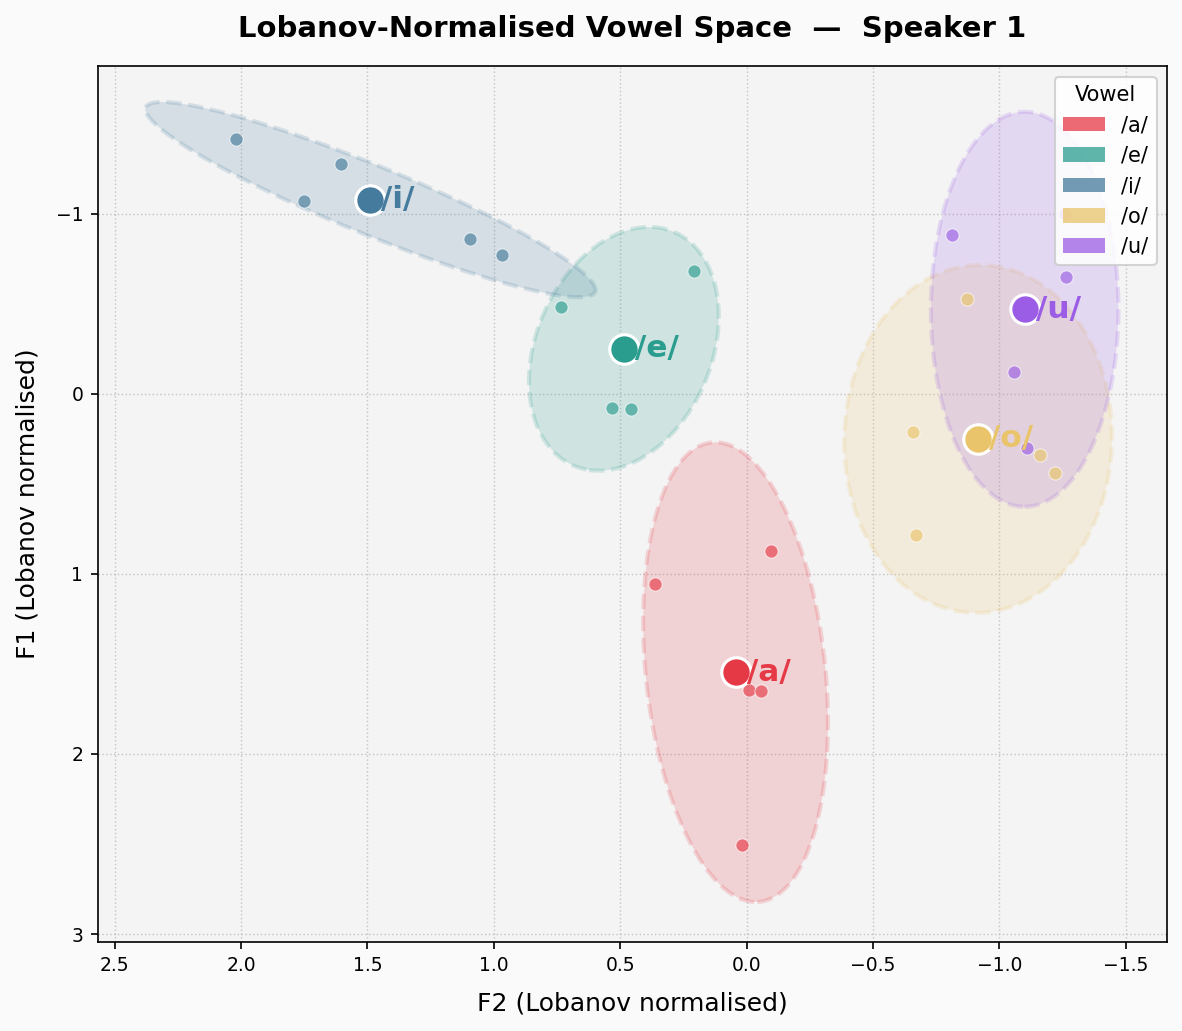
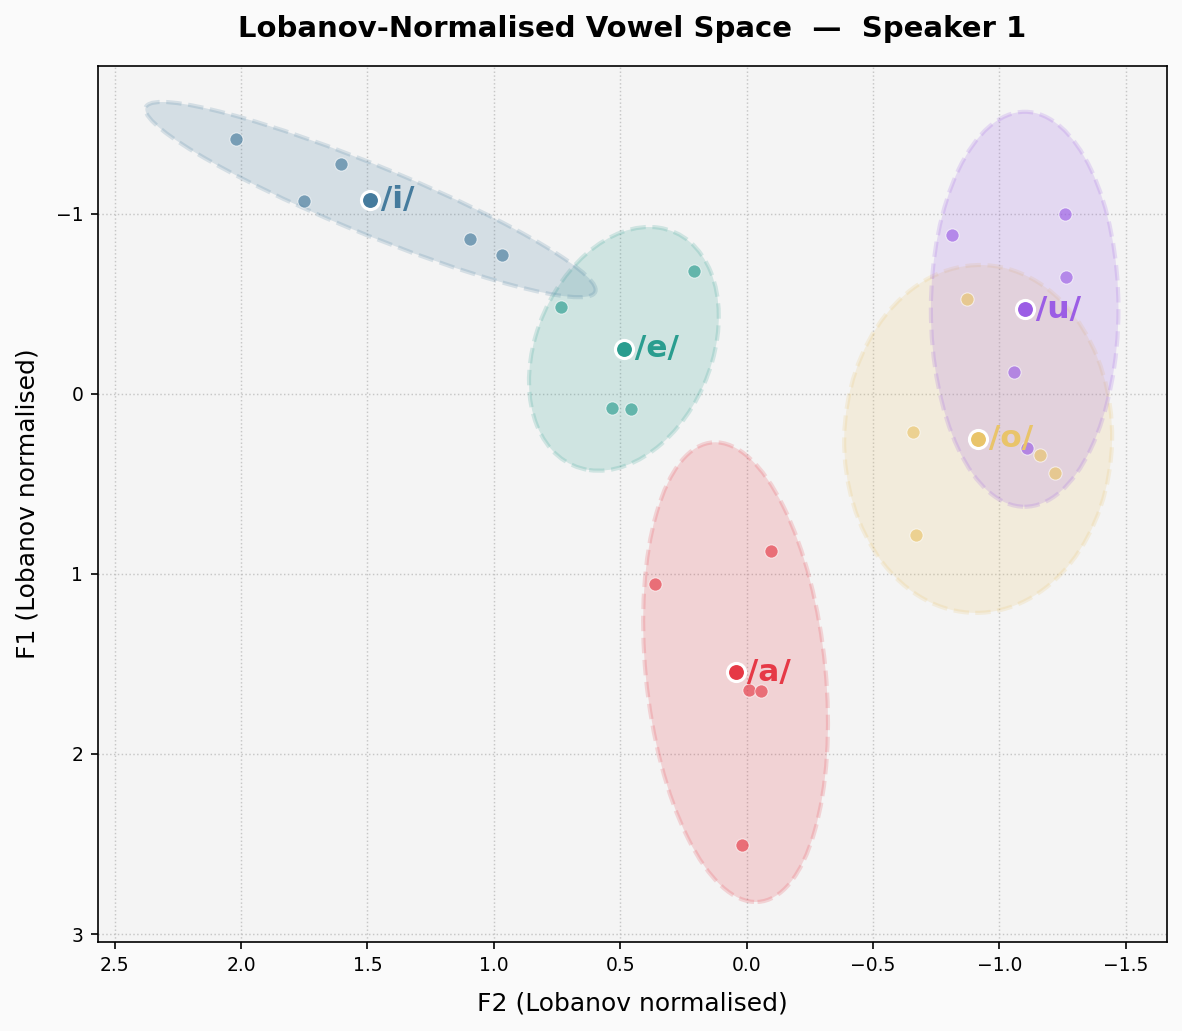
restructure project, fix graph key and large centre circle issues

diff --git a/README.md b/README.md
@@ -20,7 +20,7 @@ pip install pandas numpy matplotlib
 ---
 
 ## Usage
-
+Navigate to the src folder (```cd ./src```), and enter:
 ```bash
 python3 script.py <csv_file> <output_name>
 ```
@@ -55,7 +55,7 @@ The CSV should be tab-separated with the following columns:
 - **Speaker** — speaker ID (currently supports single-speaker files)
 - **Vowel** — one of `a`, `e`, `i`, `o`, `u`
 - **F1 / F2** — formant values in Hz
-- **context** — ignored by the tool
+- **context** — ignored by the tool, optional inclusion
 
 ---
 
@@ -71,23 +71,10 @@ The CSV should be tab-separated with the following columns:
 
 ---
 
-## Project Structure
-
-```
-.
-├── script.py           # Entry point — argument parsing and pipeline
-├── normalise.py        # Data loading and Lobanov normalisation
-├── plot_vowels.py      # Vowel space plot with ellipses
-├── output_results.py   # Terminal and .txt output of midpoints
-└── results/            # Generated outputs (created on first run)
-```
-
----
-
 ## Acknowledgements
 
 **Libraries:** [pandas](https://pandas.pydata.org/), [NumPy](https://numpy.org/), [Matplotlib](https://matplotlib.org/)
 
 **Normalisation method:** Lobanov, B. M. (1971). Classification of Russian vowels spoken by different speakers. *Journal of the Acoustical Society of America*, 49(2B), 606–608.
 
-**AI assistance:** This project was developed with the assistance of [Claude](https://claude.ai) (Anthropic), which was used to generate the Python code across all modules. Claude was used as a coding tool to implement the described functionality (data visualisation), the analysis approach and data itself was provided by the user.
+**AI assistance:** This project was developed with the assistance of [Claude](https://claude.ai) (Anthropic), which was used to generate the initial Python code across all modules. Later edits to the code were made by the user to improve presentation of data and project layout. Claude was used as a coding tool to assist in the automation of the data visualisation process, the analysis approach and data itself was provided by the user.